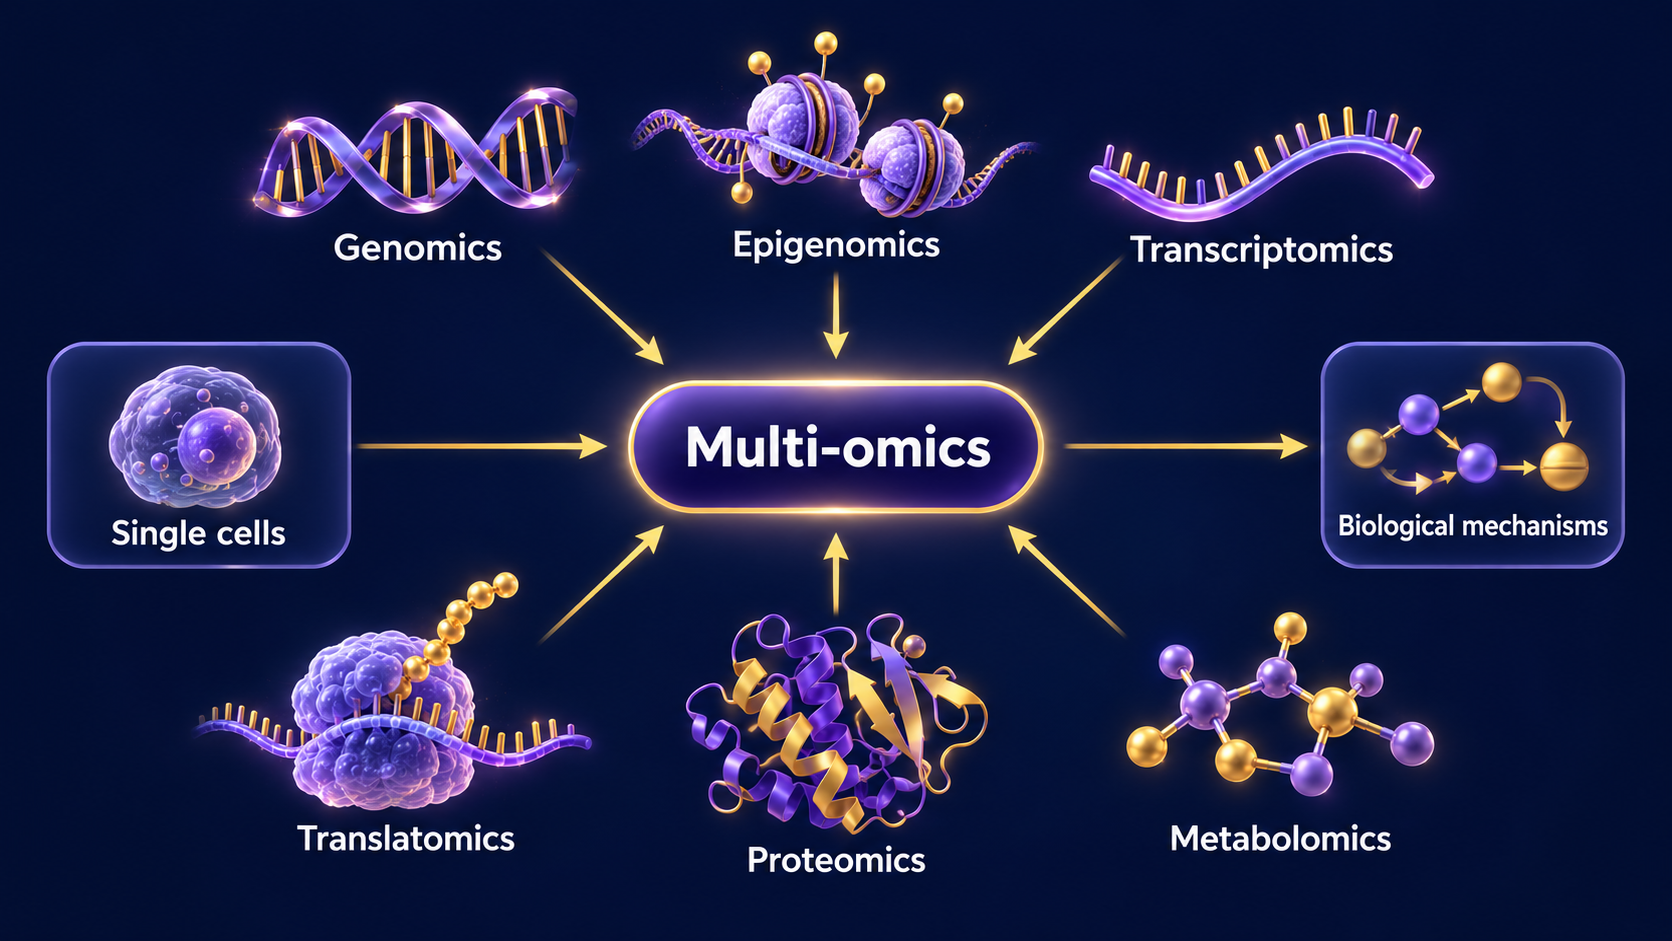
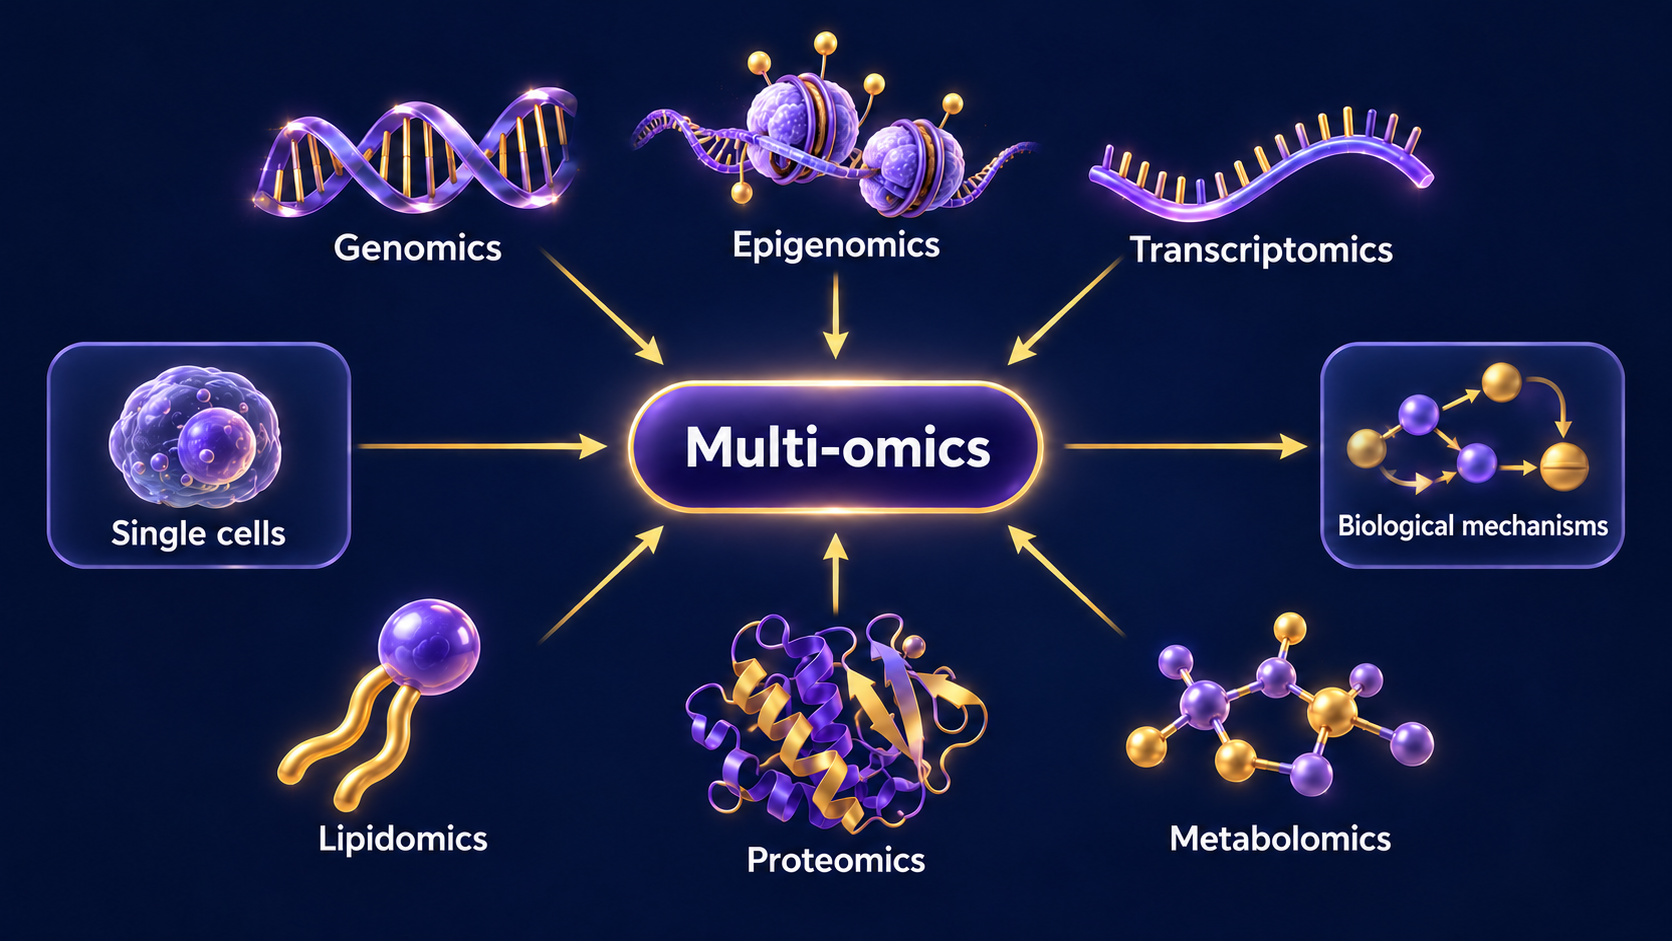
Replace translatomics with lipidomics in homepage cover

diff --git a/index.html b/index.html
@@ -28,7 +28,7 @@
 <main id="main">
 
 <section class="hero">
-  <img class="hero-art" src="assets/img/multi-omics-integration-cover.png" alt="Genomics, epigenomics, transcriptomics, translatomics, proteomics and metabolomics converge in multi-omics integration, linking single cells to biological mechanisms." width="1672" height="941" fetchpriority="high">
+  <img class="hero-art" src="assets/img/multi-omics-integration-cover.png" alt="Genomics, epigenomics, transcriptomics, lipidomics, proteomics and metabolomics converge in multi-omics integration, linking single cells to biological mechanisms." width="1672" height="941" fetchpriority="high">
   <div class="wrap">
     <span class="hero-tagline">Technology &bull; Expertise &bull; Training &bull; Collaboration</span>
     <h1>Supporting Discovery Across the Life Sciences</h1>
